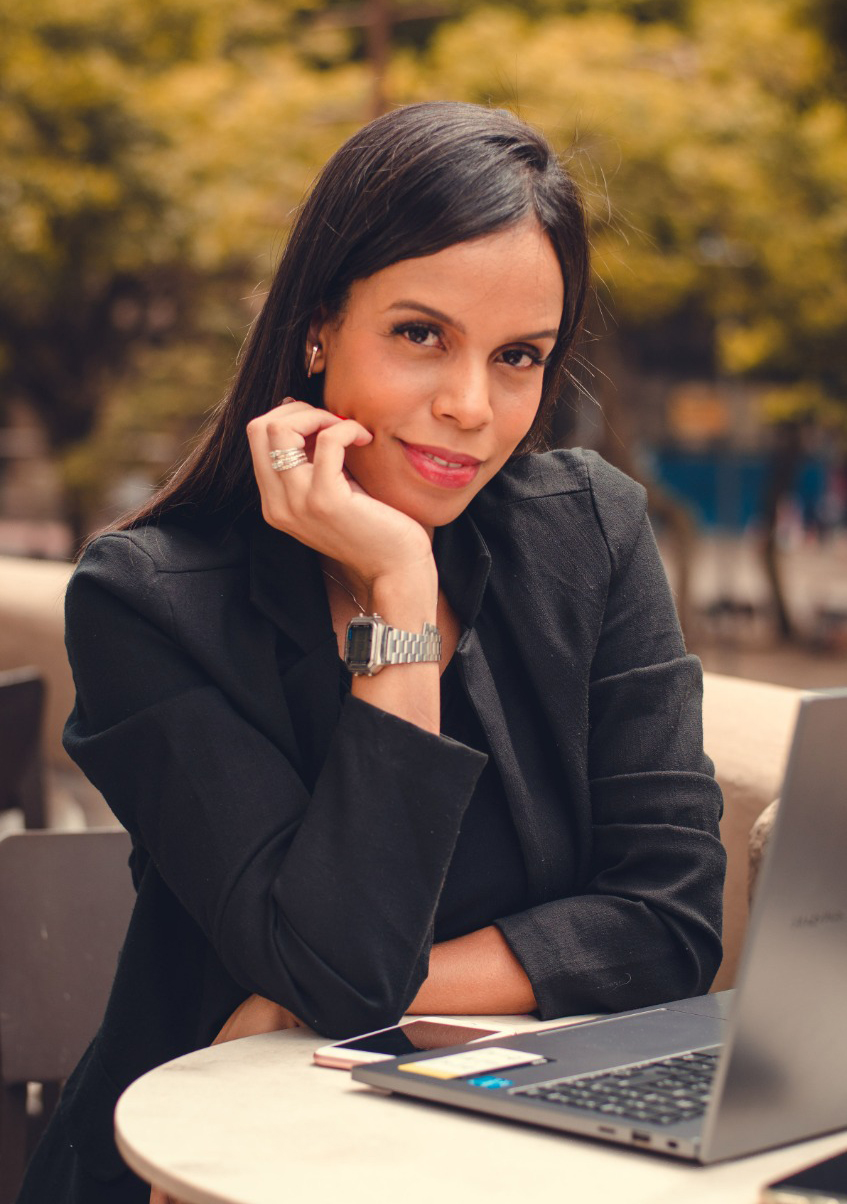
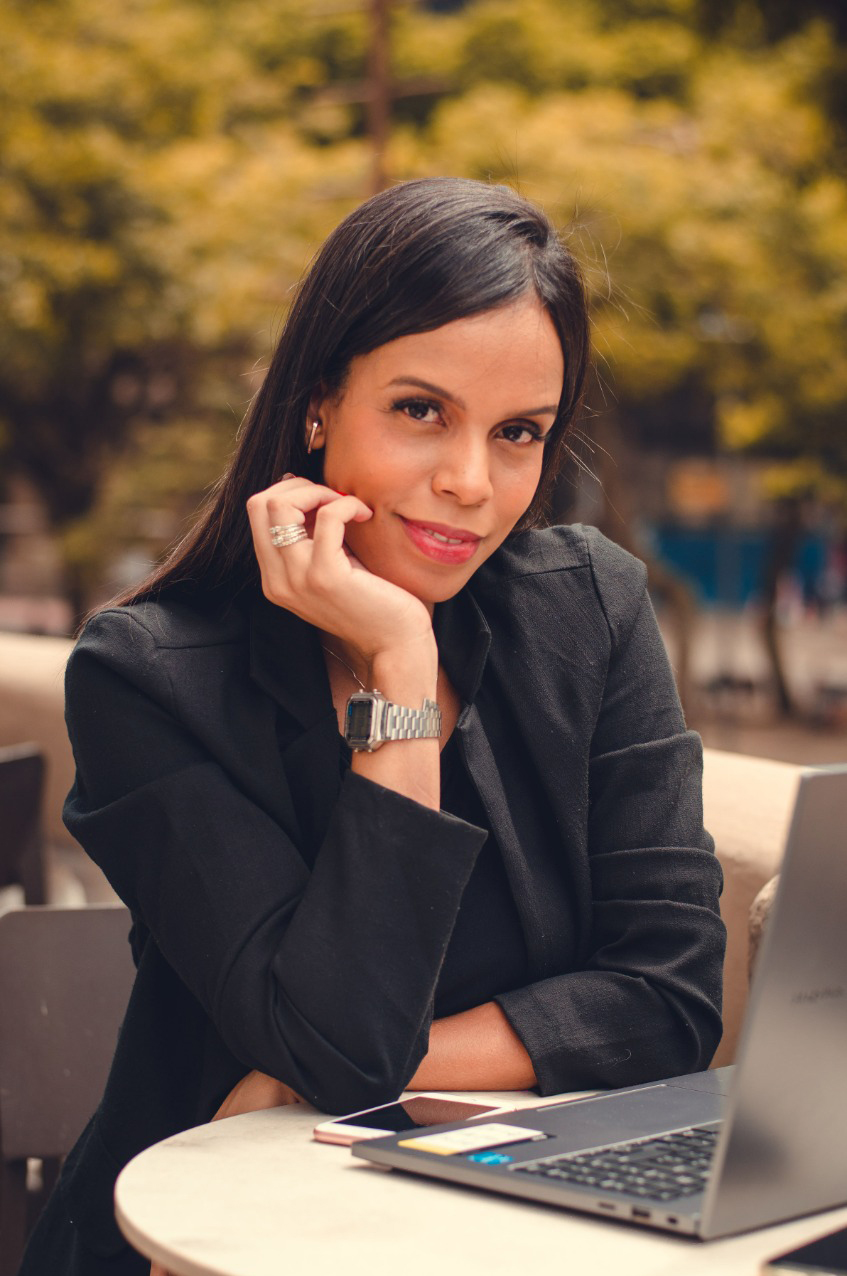
alterações na foto da side

diff --git a/style.css b/style.css
@@ -18,17 +18,16 @@ a {
     height: 100%;
     display: grid;
     grid-template-columns: repeat(3, 1fr);
-    grid-template-rows: 93vh 7vh;
+    grid-template-rows: 14fr 1fr;
     background-color: black;
 }
 
 #side-left{
-    grid-row: 1;
+    grid-row: 1 / span 2;
     grid-column: 1;
-    overflow: hidden;
 }
 
-#side-left img{
+.side-web img{
     width: 100%;
     height: 100vh;
     object-fit: cover;
@@ -131,7 +130,7 @@ main {
     width: 7rem;
     height: auto;
     margin-right: 1.2rem;
-    margin-bottom: 1rem;
+    margin-bottom: 1.5rem;
 }
 
 footer{
@@ -145,8 +144,7 @@ footer{
     display: flex;
     align-items: center;
     justify-content: center;
-    height: 3rem;
-    padding: 0 1rem;
+    padding: 0 2rem;
     text-align: center;
 }
 
